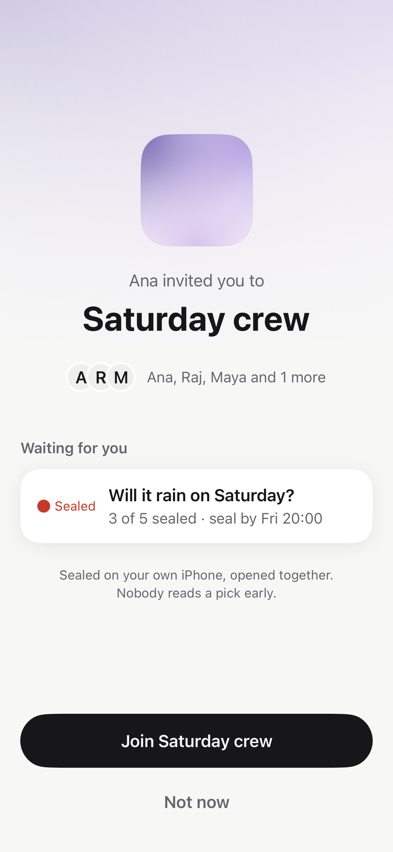
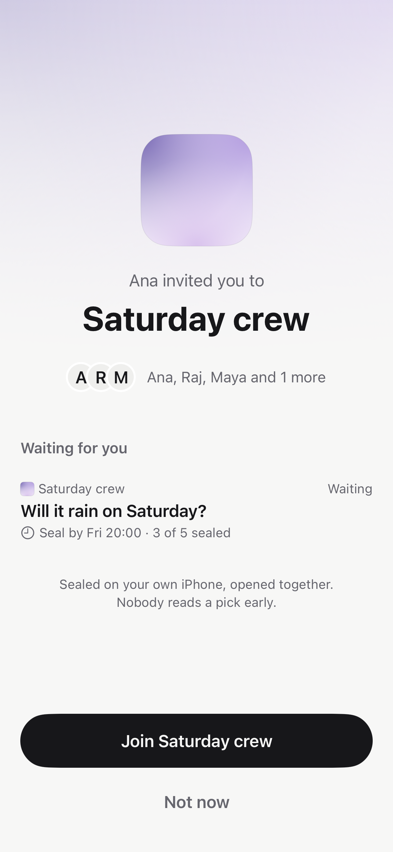
design(sweep): clarify the pending invite slip

diff --git a/Slip/Screens/CreationScreens.swift b/Slip/Screens/CreationScreens.swift
@@ -320,22 +320,21 @@ struct InviteScreen: View {
                         Button {
                             model.inform("Join the crew before sealing its open slip.")
                         } label: {
-                            SlipCard {
-                                HStack(spacing: SlipSpacing.medium) {
-                                    SealStatusTag()
-                                    VStack(alignment: .leading, spacing: SlipSpacing.tiny) {
-                                        Text(model.sampleQuestion)
-                                            .font(SlipFont.headline)
-                                            .foregroundStyle(SlipColor.ink)
-                                            .multilineTextAlignment(.leading)
-                                        Text("3 of 5 sealed · seal by Fri 20:00")
-                                            .font(SlipFont.subheadline)
-                                            .foregroundStyle(SlipColor.secondary)
-                                            .multilineTextAlignment(.leading)
-                                    }
+                            VStack(alignment: .leading, spacing: SlipSpacing.tiny) {
+                                CrewIdentityLine(crew: PreviewContent.crew) {
+                                    SealStatusTag(sealed: false)
                                 }
+                                Text(model.sampleQuestion)
+                                    .font(SlipFont.headline)
+                                    .foregroundStyle(SlipColor.ink)
+                                    .lineLimit(typeSize.isAccessibilitySize ? nil : SlipSize.questionLines)
+                                    .multilineTextAlignment(.leading)
+                                    .fixedSize(horizontal: false, vertical: true)
+                                RowMetadata(symbol: "clock", text: "Seal by Fri 20:00 · 3 of 5 sealed")
                             }
-                            .contentShape(RoundedRectangle(cornerRadius: SlipRadius.card))
+                            .padding(.vertical, SlipSpacing.medium)
+                            .frame(maxWidth: .infinity, minHeight: SlipSize.minimumTap, alignment: .leading)
+                            .contentShape(Rectangle())
                         }
                         .buttonStyle(.plain)
                     }
